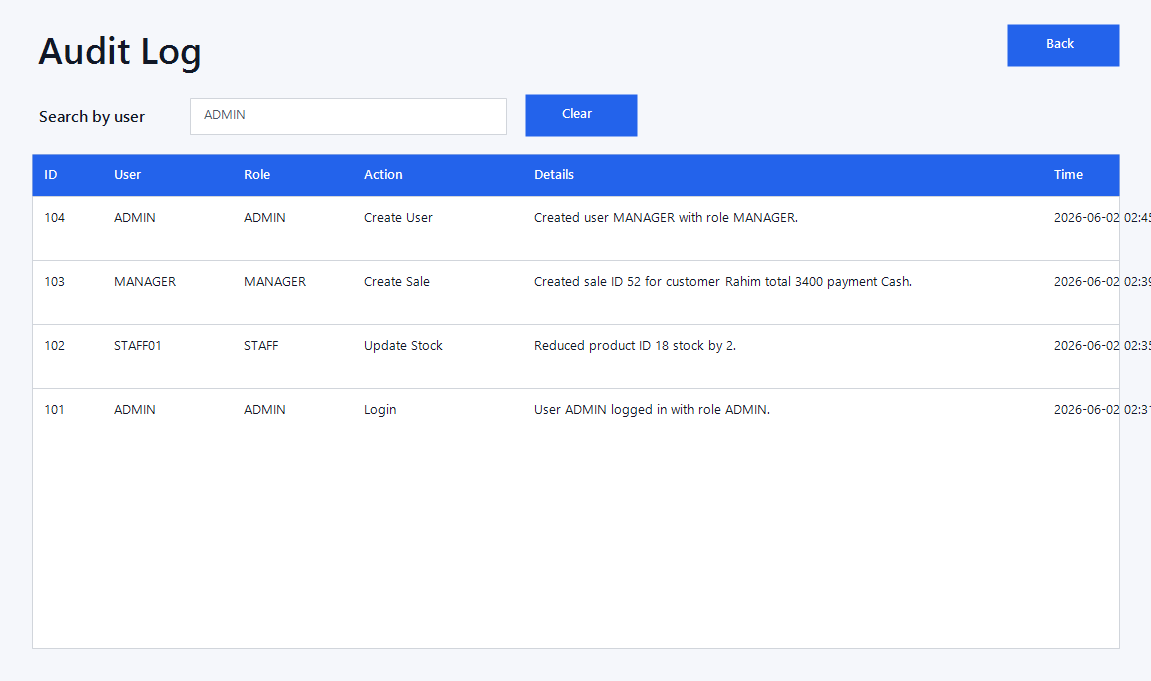
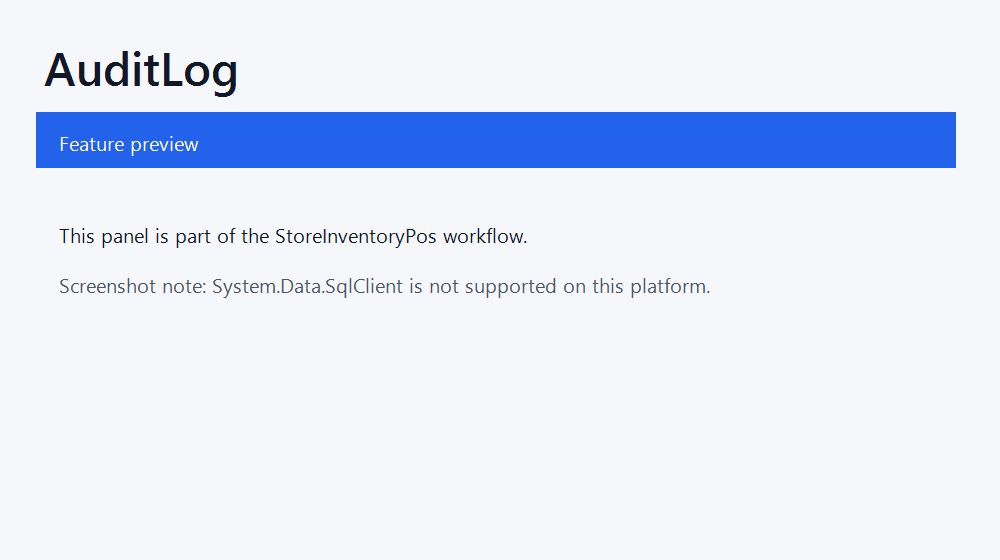
Finalize UI theme and screenshots

diff --git a/StoreInventoryPos/DataAccess.cs b/StoreInventoryPos/DataAccess.cs
@@ -1,6 +1,6 @@
 using System.Collections.Generic;
 using System.Data;
-using Microsoft.Data.SqlClient;
+using System.Data.SqlClient;
 using StoreInventoryPos;
 
 namespace WFAManagementPro
@@ -36,7 +36,7 @@ namespace WFAManagementPro
         }
 
         private readonly string connectionString = Environment.GetEnvironmentVariable("STORE_POS_CONNECTION_STRING")
-            ?? @"Data Source=.\SQLEXPRESS;Initial Catalog=ShoeStorePOS;Integrated Security=True;Trust Server Certificate=True;";
+            ?? @"Data Source=.\SQLEXPRESS;Initial Catalog=ShoeStorePOS;Integrated Security=True;TrustServerCertificate=True;";
 
         public DataAccess()
         {
@@ -807,7 +807,7 @@ ORDER BY CreatedAt DESC, AuditLogID DESC";
         FROM Sales s
         INNER JOIN SaleProduct sp ON s.SaleID = sp.SaleID
         INNER JOIN Product p ON sp.ProductID = p.ProductID
-        WHERE s.SaleID LIKE @SaleID
+        WHERE CAST(s.SaleID AS NVARCHAR(50)) LIKE @SaleID
         GROUP BY 
             s.SaleID, 
             s.CustomerName, 
@@ -898,7 +898,7 @@ ORDER BY CreatedAt DESC, AuditLogID DESC";
         INNER JOIN UserSale us ON sr.SaleID = us.SaleID
         INNER JOIN SaleProduct sp ON sr.SaleID = sp.SaleID
         INNER JOIN Product p ON sp.ProductID = p.ProductID
-        WHERE (@SaleID = '' OR sr.SaleID LIKE @SaleID + '%')
+        WHERE (@SaleID = '' OR CAST(sr.SaleID AS NVARCHAR(50)) LIKE @SaleID + '%')
     ";
 
             using (SqlCommand cmd = new SqlCommand(query, this.Sqlcon))

diff --git a/StoreInventoryPos/Program.cs b/StoreInventoryPos/Program.cs
@@ -11,13 +11,6 @@ namespace StoreInventoryPos
             // To customize application configuration such as set high DPI settings or default font,
             // see https://aka.ms/applicationconfiguration.
             ApplicationConfiguration.Initialize();
-            Application.Idle += (_, _) =>
-            {
-                foreach (Form form in Application.OpenForms)
-                {
-                    AppTheme.Apply(form);
-                }
-            };
             Application.Run(new LoginPage());
             //Application.Run(new CreateUser());
             // Application.Run(new modifyUser());

diff --git a/StoreInventoryPos/profile.cs b/StoreInventoryPos/profile.cs
@@ -1,8 +1,8 @@
-using System;
+using System;
 using System.Collections.Generic;
 using System.ComponentModel;
 using System.Data;
-using Microsoft.Data.SqlClient;
+using System.Data.SqlClient;
 using System.Drawing;
 using System.Linq;
 using System.Text;
@@ -12,7 +12,7 @@ using WFAManagementPro;
 
 namespace StoreInventoryPos
 {
-    public partial class profile : Form
+    public partial class profile : ThemedForm
     {
 
         public profile()
@@ -82,4 +82,5 @@ namespace StoreInventoryPos
         }
     }
 }
+
 

diff --git a/StoreInventoryPos/Billing.cs b/StoreInventoryPos/Billing.cs
@@ -1,4 +1,4 @@
-using System;
+using System;
 using System.Collections;
 using System.Collections.Generic;
 using System.ComponentModel;
@@ -14,7 +14,7 @@ using static System.Windows.Forms.VisualStyles.VisualStyleElement.StartPanel;
 namespace StoreInventoryPos
 {
 
-    public partial class Billing : Form
+    public partial class Billing : ThemedForm
     {
         private List<CartItem> cartItems;
         private double appliedDiscount = 0;
@@ -165,4 +165,5 @@ namespace StoreInventoryPos
     }
 
 }
+
 

diff --git a/StoreInventoryPos/PromoCode.cs b/StoreInventoryPos/PromoCode.cs
@@ -1,4 +1,4 @@
-using System;
+using System;
 using System.Collections.Generic;
 using System.ComponentModel;
 using System.Data;
@@ -12,7 +12,7 @@ using static System.Windows.Forms.VisualStyles.VisualStyleElement.ScrollBar;
 
 namespace StoreInventoryPos
 {
-    public partial class PromoCode : Form
+    public partial class PromoCode : ThemedForm
     {
         public PromoCode()
         {
@@ -232,4 +232,5 @@ namespace StoreInventoryPos
         }
     }
 }
+
 

diff --git a/StoreInventoryPos/inventoryManagement.cs b/StoreInventoryPos/inventoryManagement.cs
@@ -1,4 +1,4 @@
-using System;
+using System;
 using System.Collections.Generic;
 using System.ComponentModel;
 using System.Data;
@@ -10,7 +10,7 @@ using System.Windows.Forms;
 
 namespace StoreInventoryPos
 {
-    public partial class inventoryManagement : Form
+    public partial class inventoryManagement : ThemedForm
     {
         public inventoryManagement()
         {
@@ -52,3 +52,4 @@ namespace StoreInventoryPos
         }
     }
 }
+

diff --git a/StoreInventoryPos/saleReport.cs b/StoreInventoryPos/saleReport.cs
@@ -1,4 +1,4 @@
-using System;
+using System;
 using System.Collections.Generic;
 using System.ComponentModel;
 using System.Data;
@@ -16,7 +16,7 @@ using WFAManagementPro;
 
 namespace StoreInventoryPos
 {
-    public partial class saleReport : Form
+    public partial class saleReport : ThemedForm
     {
         public saleReport()
         {
@@ -182,3 +182,4 @@ private void btnExport_Click(object sender, EventArgs e)
 
     }
 }
+

diff --git a/StoreInventoryPos/staffDashboard.cs b/StoreInventoryPos/staffDashboard.cs
@@ -1,4 +1,4 @@
-using System;
+using System;
 using System.Collections.Generic;
 using System.ComponentModel;
 using System.Data;
@@ -10,7 +10,7 @@ using System.Windows.Forms;
 
 namespace StoreInventoryPos
 {
-    public partial class staffDashboard : Form
+    public partial class staffDashboard : ThemedForm
     {
         public staffDashboard()
         {
@@ -59,3 +59,4 @@ namespace StoreInventoryPos
         }
     }
 }
+

diff --git a/StoreInventoryPos/selectionCart.cs b/StoreInventoryPos/selectionCart.cs
@@ -1,4 +1,4 @@
-using System;
+using System;
 using System.Collections.Generic;
 using System.ComponentModel;
 using System.Data;
@@ -11,7 +11,7 @@ using WFAManagementPro;
 
 namespace StoreInventoryPos
 {
-    public partial class selectionCart : Form
+    public partial class selectionCart : ThemedForm
     {
         public selectionCart()
         {
@@ -242,4 +242,5 @@ namespace StoreInventoryPos
         }
     }
 }
+
 

diff --git a/StoreInventoryPos/adminDashboard.cs b/StoreInventoryPos/adminDashboard.cs
@@ -1,4 +1,4 @@
-using System;
+using System;
 using System.Collections.Generic;
 using System.ComponentModel;
 using System.Data;
@@ -11,7 +11,7 @@ using WFAManagementPro;
 
 namespace StoreInventoryPos
 {
-    public partial class adminDashboard : Form
+    public partial class adminDashboard : ThemedForm
     {
         public adminDashboard()
         {
@@ -88,3 +88,4 @@ namespace StoreInventoryPos
         }
     }
 }
+

diff --git a/StoreInventoryPos/staffInventory.cs b/StoreInventoryPos/staffInventory.cs
@@ -1,4 +1,4 @@
-using System;
+using System;
 using System.Collections.Generic;
 using System.ComponentModel;
 using System.Data;
@@ -11,7 +11,7 @@ using WFAManagementPro;
 
 namespace StoreInventoryPos
 {
-    public partial class staffInventory : Form
+    public partial class staffInventory : ThemedForm
     {
         public staffInventory()
         {
@@ -73,3 +73,4 @@ namespace StoreInventoryPos
         }
     }
 }
+

diff --git a/StoreInventoryPos/modifyProduct.cs b/StoreInventoryPos/modifyProduct.cs
@@ -1,4 +1,4 @@
-using System;
+using System;
 using System.Collections.Generic;
 using System.ComponentModel;
 using System.Data;
@@ -11,7 +11,7 @@ using WFAManagementPro;
 
 namespace StoreInventoryPos
 {
-    public partial class modifyProduct : Form
+    public partial class modifyProduct : ThemedForm
     {
         public modifyProduct()
         {
@@ -166,3 +166,4 @@ namespace StoreInventoryPos
         }
     }
 }
+
